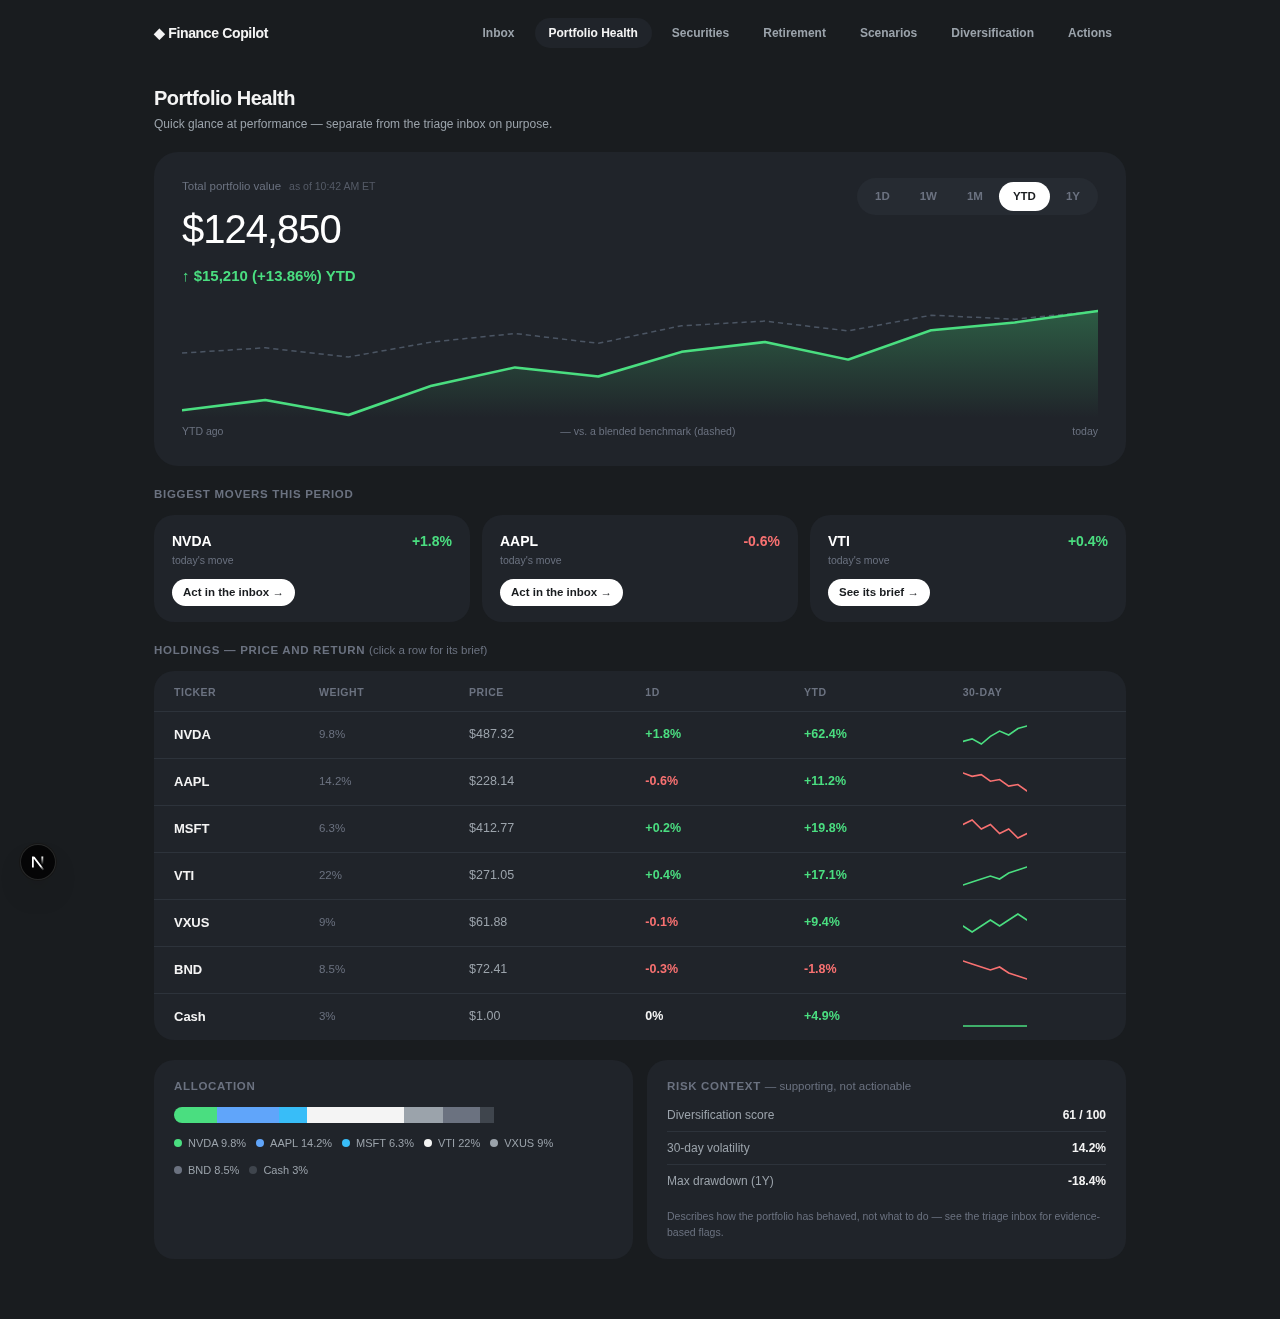
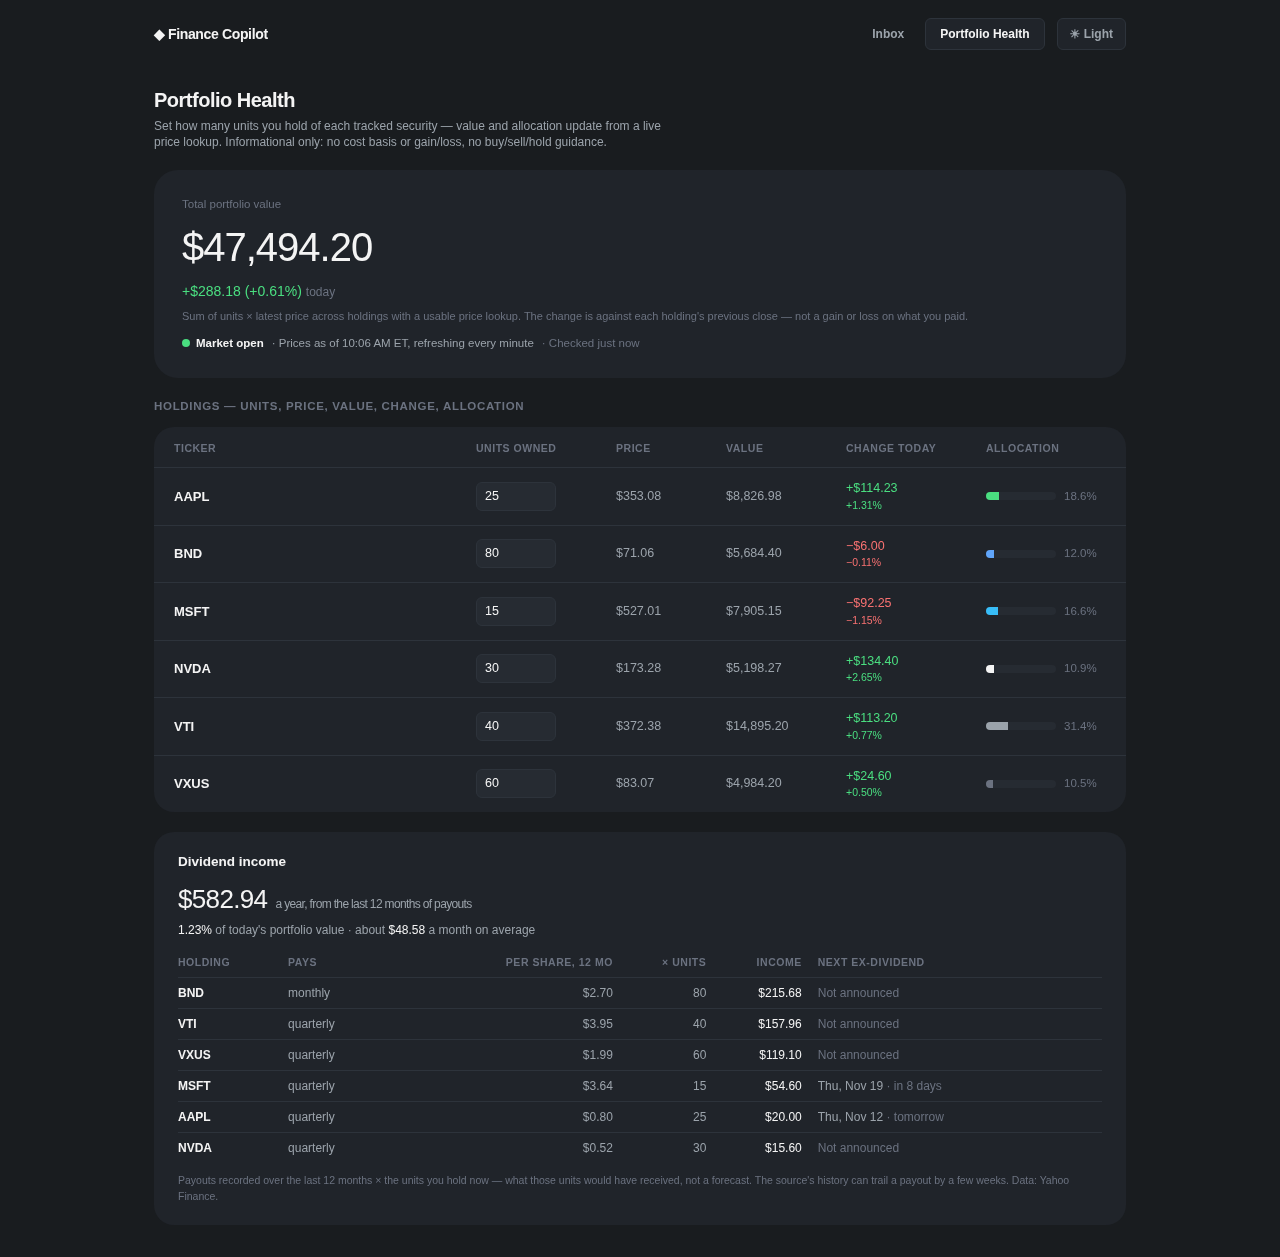
docs: README and ADR index for the live app (ADRs 0015-0018)
The README still described the mock-data POC (no backend, hero chart,
verdict chips, thesis drawer). Rewritten for what the app does now:
the three pages and what each shows, the two rules (information not
instructions; accurate not performative), how it works (Conduit in
homelab-hub, 30-min research, the data sources and their freshness),
running locally with NEXT_PUBLIC_FINANCE_API_BASE, deploying, the
current structure, and a short decision history.

ADR index: 0006-0018 added, with superseded/lifted statuses marked.
Screenshots: the six of removed features replaced by four from a local
stack in market hours (research not run there; the inbox shows its
empty state, and the README says so).

diff --git a/README.md b/README.md
@@ -1,139 +1,245 @@
-# Finance Copilot — Research Triage POC
+# Finance Copilot — Research Triage + Live Market Data
 
-A proof-of-concept AI-assisted portfolio research copilot for one
-hypothetical early-career retirement investor: age 25, a $18,000
-brokerage account across 7 holdings — NVDA, AAPL, MSFT, VTI, VXUS, BND,
-Cash.
+A personal proof of concept: an AI-assisted research copilot for the
+securities you hold. Every 30 minutes it reads each holding's SEC
+filings and news, asks a local LLM what changed, and sorts the result
+into a triage inbox: **Act**, **Watch**, or **Reviewed**. Every claim
+links back to the document it came from.
 
-The app is a triage-first workflow, not a static risk dashboard: what
-needs attention right now, with every claim traceable to a source.
-Visual system is a dark "Confident Flat" theme — see
-[`docs/adr/0011-triage-inbox-visual-implementation.md`](docs/adr/0011-triage-inbox-visual-implementation.md)
-for the build record,
-[`docs/adr/0012-scope-narrowing.md`](docs/adr/0012-scope-narrowing.md)
-for why the app is now exactly three pages (it used to carry five
-unrelated risk-dashboard-era routes under the old "AI Finance Risk
-Analysis" name, since removed), and
-[`design/mockups/clickable-triage.html`](design/mockups/clickable-triage.html),
-[`clickable-health.html`](design/mockups/clickable-health.html), and
-[`clickable-detail.html`](design/mockups/clickable-detail.html) for the
-literal approved spec these three pages implement.
+Alongside the research it shows the market data a holder actually looks
+at:
+- price action;
+- upcoming earnings and ex-dividend dates;
+- Fed rate decisions;
+- dividend income;
+- how diversified the portfolio really is once funds are looked
+  through.
 
-- **What needs my attention?** ([`/`](apps/web/src/app/page.tsx), the
-  landing page — "Inbox" in the nav) — every holding grouped into
-  Act / Watch / Reviewed (no action needed), each item carrying a
-  headline, a one-line summary, and the specific reason it was
-  flagged. "Mark reviewed" is a real client-side interaction (no
-  persistence — POC). Below the queue, portfolio-level signals
-  (concentration hidden inside index funds, correlated news across
-  holdings) surface cross-holding analysis no single item's triage
-  would catch, plus the current allocation breakdown. Never a
-  buy/sell/hold call — every claim is framed as evidence to form your
-  own view from, with a stated basis.
-- **How is it doing?** ([`/portfolio-health`](apps/web/src/app/portfolio-health/page.tsx)) —
-  a deliberately separate page from the inbox (triage changes when
-  news drops; this changes when the market moves). Hero total-value
-  chart with a 1D/1W/1M/YTD/1Y toggle (the chart's accent color always
-  follows the actual sign of the period's change, never hardcoded),
-  biggest movers linking back into the inbox or a holding's brief,
-  a holdings price/return table, an allocation bar, and risk context
-  (diversification score, volatility, max drawdown) demoted to a small
-  card explicitly labeled "describes behavior, not instruction."
-- **Why is this holding flagged, and what's the evidence?**
-  ([`/securities/[ticker]`](apps/web/src/app/securities/[ticker]/page.tsx)) —
-  a thesis check with a verdict chip (weakens/supports/neutral,
-  always paired with its reason — never a bare rating), bull case /
-  bear case with inline citation markers, upcoming catalysts, a
-  chronological timeline, an explicit "what this system couldn't
-  verify" disclosure, and a per-citation "show your work" drawer
-  (raw excerpt, source-quality tag, model classification). Covers all
-  7 holdings, including the two low-activity index funds and Cash,
-  which render minimal pages rather than breaking.
+Two rules apply everywhere:
 
-**This is a POC with no backend, no data pipeline, and no real data.**
-Everything on screen is synthetic/mock data defined in
-[`apps/web/src/lib/mock-data.ts`](apps/web/src/lib/mock-data.ts) (news/
-sentiment/tax-flag fixtures feeding the relevance ranking) and
-[`apps/web/src/lib/triage.ts`](apps/web/src/lib/triage.ts) (the inbox,
-Portfolio Health, and holding-detail content — copied verbatim from the
-approved mockups, not invented). See
-[`docs/adr/0001-poc-scope-no-plumbing.md`](docs/adr/0001-poc-scope-no-plumbing.md)
-for why, and the rest of [`docs/adr/`](docs/adr/) for the full decision
-history — including ADRs 0002-0009, which cover product directions
-(retirement projection, scenario replay, diversification scoring) that
-were built, then removed per ADR 0012; those ADRs are left unedited as
-a historical record, not retconned.
+- **Information, not instructions.** There is no buy/sell/hold language
+  and no scores or verdicts. Signals show their basis, and AI-written
+  text cites its sources.
+- **Accurate, not performative.** Every price says which session it's
+  from. Outside market hours the app says so ("Market closed · Prices
+  are from the Fri, Nov 13 4:00 PM ET close"). Only dates that have
+  actually been published are shown; nothing is projected. Figures that
+  look backwards say so ("not a forecast").
+
+## Pages
+
+### Inbox — what needs my attention? ([`/`](apps/web/src/app/page.tsx))
+- **Market status line:**
+  - while the market is open, prices refresh every minute;
+  - outside the session, it states which close the prices are from.
+- **Holdings being watched:**
+  - add or remove tickers (stocks, ETFs, treasuries, index funds);
+  - each shows its price, its day change, when it was last researched,
+    and a *Refresh now* button.
+- **Needs your attention:** Act / Watch cards from the latest LLM read.
+  - Each card shows the price, the day change, the day's price chart
+    (previous close dashed), and a chip for the nearest dated event
+    ("Earnings in 6 days").
+  - *Mark reviewed* folds a card into the Reviewed group. It's
+    browser-only for now: the mark isn't saved.
+- **Coming up:** the next 30 days of published earnings dates and
+  announced ex-dividend dates across your holdings, plus scheduled Fed
+  rate decisions, in date order.
+
+### Holding detail — why is this flagged? ([`/securities/[ticker]`](apps/web/src/app/securities/[ticker]/page.tsx))
+- **Market panel:**
+  - price and change, with the day's chart;
+  - previous close, day range and 52-week range (with where the price
+    sits), and volume;
+  - beta and trailing P/E;
+  - next earnings, marked *Confirmed* or *Estimated*;
+  - dividend yield, payment schedule, and the next ex-dividend date
+    (or the last recorded one).
+  - Every term has an inline explanation.
+- **Latest read:** the LLM's summary, event type, sentiment and
+  materiality, with "this claim cites" links to the source documents.
+  Earlier reads are listed below it.
+- **Documents fetched:** the filings and news the reads were built from,
+  each linking to the original.
+
+### Portfolio Health — how is it doing? ([`/portfolio-health`](apps/web/src/app/portfolio-health/page.tsx))
+Numbers only, no AI text. Every figure is arithmetic on published data.
+
+- **Value and change:**
+  - total value (units × latest price), and the change since the
+    previous close, in total and per position;
+  - an editable *units* column;
+  - allocation.
+- **Dividend income:**
+  - payouts recorded over the last 12 months × the units you hold now;
+  - as a yearly total, a share of today's value, and a monthly average;
+  - a per-holding breakdown with the next announced ex-dividend date.
+- **Diversification:**
+  - concentration (largest position, top 3, "sized like N equal
+    holdings");
+  - asset mix;
+  - sector exposure, held directly vs through funds;
+  - single-company exposure, including through funds' top holdings;
+  - how closely holdings have moved together over 12 months.
+  - The only words attached to a number are fractions that are true of
+    it ("60.2% — a majority").
 
 ## Screenshots
 
-Inbox — the landing page, Act/Watch triage queue with portfolio-level signals:
+These are from a local stack during market hours, with six test
+holdings. Research hasn't run on that stack, so the inbox shows its
+empty "All caught up" state.
 
-![Inbox](docs/screenshots/triage-inbox.png)
+Inbox: market status, watched holdings with live prices, and Coming up (earnings, ex-dividend dates, the next Fed decision):
 
-Inbox — after marking an item reviewed (client-side state, no persistence):
+![Inbox](docs/screenshots/inbox.png)
 
-![Inbox — mark reviewed](docs/screenshots/triage-inbox-mark-reviewed.png)
+Holding detail: NVDA's market panel during the session:
 
-Portfolio Health — hero value chart, movers, holdings table, allocation, risk context:
+![Holding detail — NVDA](docs/screenshots/holding-detail-nvda.png)
+
+Portfolio Health: value, change today, holdings, and dividend income:
 
 ![Portfolio Health](docs/screenshots/portfolio-health.png)
 
-Portfolio Health — 1D timeframe selected (chart color follows the actual sign):
+Portfolio Health: diversification, including the fund look-through and the 12-month co-movement grid:
 
-![Portfolio Health — 1D](docs/screenshots/portfolio-health-1d.png)
+![Portfolio Health — diversification](docs/screenshots/portfolio-health-diversification.png)
 
-Holding detail — NVDA's thesis check, bull/bear evidence, catalysts, and timeline:
+## How it works
 
-![Security detail — NVDA](docs/screenshots/security-detail-nvda.png)
+```
+Browser ──► this app (Next.js, client-side fetches)
+               │  NEXT_PUBLIC_FINANCE_API_BASE  (…/api/v1/finance)
+               ▼
+           Conduit — homelab-hub/services/conduit, `finance` module
+               ├─ Postgres: holdings, documents, analyses, schedules
+               ├─ every 30 min per holding: finance_ingest
+               │     SEC EDGAR filings + Finnhub news (if keyed)
+               │     └─ only when something is new: finance_analyze
+               │          local Ollama LLM → summary, event type,
+               │          sentiment, materiality, citations
+               │          (a read citing anything outside the documents
+               │           fetched for that run is rejected)
+               ├─ /market: Yahoo Finance (keyless), cached
+               └─ /market fed_meetings: the Fed's published FOMC calendar
+```
 
-Holding detail — a citation's "show your work" drawer open:
+The backend is **not in this repo**. It lives in `homelab-hub`, as the
+`finance` module of its Conduit service, so the triage pipeline shares
+that project's job queue and scheduler.
 
-![Security detail — NVDA, source drawer](docs/screenshots/security-detail-nvda-drawer.png)
+| Data | Source | Freshness |
+|---|---|---|
+| Filings | SEC EDGAR | Checked every 30 min per holding |
+| News | Finnhub (optional key) | Checked every 30 min, 3-day lookback |
+| AI read | Local Ollama LLM | Re-run only when new documents arrive |
+| Prices, intraday, ranges, volume | Yahoo Finance | 45 s server cache; browser polls every 1 min (open), 5 min (pre/after hours), 15 min (closed) |
+| Earnings dates, ex-dividend dates, yield, beta, P/E | Yahoo Finance | 30 min cache |
+| Dividend history, 2 years of daily closes | Yahoo Finance | 6 h cache |
+| Fund make-up (asset split, sectors, top 10) | Yahoo Finance | 24 h cache |
+| Fed rate-decision dates | federalreserve.gov | 24 h cache |
+
+Yahoo's endpoints are unofficial. If one fails, only the figures from
+that call disappear; the rest of the page keeps working.
+
+## Running it locally
+
+You need a running Conduit (from `homelab-hub`) with the finance module.
+Then point this app at it:
+
+```bash
+npm install
+NEXT_PUBLIC_FINANCE_API_BASE=http://localhost:8080/api/v1/finance \
+  npm run dev --workspace=apps/web
+# http://localhost:3000
+```
+
+The browser calls Conduit directly. Conduit allows `localhost` and
+`127.0.0.1` origins (any port) for local development.
+
+`NEXT_PUBLIC_FINANCE_API_BASE` is inlined into the client bundle at
+**build** time. Changing it means rebuilding, not just restarting.
+
+Production build:
+
+```bash
+NEXT_PUBLIC_FINANCE_API_BASE=… npm run build --workspace=apps/web
+npm run start --workspace=apps/web
+```
+
+## Deploying
+
+A single container ([`Dockerfile`](Dockerfile),
+[`docker-compose.yml`](docker-compose.yml)) published on host port
+3210. Set `NEXT_PUBLIC_FINANCE_API_BASE` in `.env` (see
+[`.env.example`](.env.example)). Compose passes it as a **build arg**,
+so run `docker compose build` after changing it.
+
+In production the public site serves the app and proxies
+`/api/v1/finance/*` to Conduit on the same domain. That keeps the API
+same-origin, so no CORS is needed and viewers don't need VPN access.
+See [`docs/deployment.md`](docs/deployment.md) for the reverse-proxy
+setup.
 
 ## Structure
 
 ```
 ai-finance-risk-analysis/
-├── apps/
-│   └── web/              # Next.js (App Router) app
-│       └── src/
-│           ├── app/              # page.tsx (inbox), portfolio-health/,
-│           │                     # securities/[ticker]/  — exactly 3 routes
-│           ├── components/       # HoldingDetailView, SiteNav
-│           └── lib/
-│               ├── mock-data.ts  # persona + news/sentiment/tax-flag fixtures
-│               ├── triage.ts     # inbox, Portfolio Health, holding-detail data
-│               └── digest.ts     # pure relevance-ranking function
-├── design/
-│   └── mockups/           # approved static-HTML design mockups (reference only,
-│                           # not shipped code) — clickable-triage.html,
-│                           # clickable-health.html, clickable-detail.html are the
-│                           # literal spec apps/web implements
+├── apps/web/src/
+│   ├── app/
+│   │   ├── page.tsx                 # Inbox
+│   │   ├── portfolio-health/        # Portfolio Health
+│   │   └── securities/[ticker]/     # Holding detail
+│   ├── components/
+│   │   ├── HoldingsManager.tsx      # watched holdings: add/remove/refresh, price + change
+│   │   ├── LiveHoldingDetailView.tsx, SecurityDetailClient.tsx
+│   │   ├── MarketPanel.tsx          # detail-page market data
+│   │   ├── MarketStatus.tsx         # the honest open/closed line
+│   │   ├── PriceChart.tsx           # intraday sparkline + session chart (inline SVG)
+│   │   ├── UpcomingEvents.tsx       # Coming up
+│   │   ├── DividendIncome.tsx
+│   │   ├── DiversificationSection.tsx
+│   │   ├── useMarket.ts             # market-clock polling
+│   │   └── SiteNav.tsx, ThemeToggle.tsx
+│   └── lib/
+│       ├── live-finance.ts          # API client + types mirroring Conduit's JSON
+│       ├── market.ts                # market wording, formatting, event and fraction rules
+│       ├── triage.ts                # inbox card type
+│       └── format.ts
+├── design/mockups/                  # approved static-HTML mockups (reference only)
+│   └── FUTURE-FEATURES.md           # considered, not built (and declined) ideas
 ├── docs/
-│   ├── adr/               # architecture decision records
-│   └── screenshots/       # app screenshots (this README embeds them)
-└── package.json            # npm workspaces root
+│   ├── adr/                         # decision records, 0001–0018
+│   ├── deployment.md
+│   └── screenshots/
+├── Dockerfile, docker-compose.yml, .env.example
+└── package.json                     # npm workspaces root
 ```
 
-## Running it locally
+## Decision history
 
-```bash
-npm install
-npm run dev --workspace=apps/web
-# http://localhost:3000
-```
+[`docs/adr/`](docs/adr/) records every reframe and why. In short:
 
-Production build:
+- **0001–0014:** a mock-data POC that went through several product
+  shapes. It started as a risk dashboard and per-security comparison,
+  then became a retirement persona, then a research copilot with a
+  triage inbox. ADR 0012 trimmed it to three pages; 0013–0014 set the
+  visual system.
+- **0015:** live data. The finance module was added in Conduit, and
+  holdings became dynamic.
+- **0016:** active market data and a 30-minute research cadence, with
+  honest market-status wording.
+- **0017:** diversification on Portfolio Health, numbers only.
+- **0018:** dividend income and Fed rate decisions, chosen from a survey
+  of other portfolio sites.
 
-```bash
-npm run build --workspace=apps/web
-npm run start --workspace=apps/web
-```
+Superseded ADRs are kept as written, as a record.
 
 ## Tech
 
-- [Next.js](https://nextjs.org) 16 (App Router, TypeScript, Tailwind CSS v4)
-- All charts (hero value, holdings sparklines, mover cards) are inline
-  SVG per the approved mockups — no charting library dependency
-
-See [`docs/adr/`](docs/adr/) for the reasoning behind each of these choices.
+- [Next.js](https://nextjs.org) 16 (App Router, TypeScript, Tailwind
+  CSS v4), with dark and light themes (ADR 0014).
+- All charts are inline SVG; there's no charting library.
+- Backend: Go (Conduit) + Postgres + a local Ollama model, in
+  `homelab-hub`.

diff --git a/docs/adr/README.md b/docs/adr/README.md
@@ -1,14 +1,31 @@
 # Architecture Decision Records
 
-This directory tracks the key decisions made while building this POC. Each
-ADR is numbered, immutable once accepted (superseded rather than edited),
-and follows the lightweight Michael Nygard format: Status, Context,
-Decision, Consequences.
+This directory tracks the key decisions made while building this POC.
+Each ADR is numbered, immutable once accepted (superseded rather than
+edited), and follows the lightweight Michael Nygard format: Status,
+Context, Decision, Consequences.
+
+The early ADRs (0001–0009) describe product shapes that were later
+replaced. They are kept as written; the ADR that replaced each one
+says why.
 
 | # | Title | Status |
 |---|-------|--------|
-| [0001](0001-poc-scope-no-plumbing.md) | POC scope: no backend, no data pipeline, no deployment plumbing | Accepted |
+| [0001](0001-poc-scope-no-plumbing.md) | POC scope: no backend, no data pipeline, no deployment plumbing | Accepted, lifted by 0015 |
 | [0002](0002-monorepo-layout.md) | Single-app monorepo layout under `apps/` | Accepted |
 | [0003](0003-nextjs-frontend.md) | Next.js (App Router) for the dashboard frontend | Accepted |
-| [0004](0004-mock-data-strategy.md) | Static, in-repo mock data instead of a fixture API or database | Accepted |
-| [0005](0005-charting-library.md) | Recharts for charting | Accepted |
+| [0004](0004-mock-data-strategy.md) | Static, in-repo mock data instead of a fixture API or database | Accepted, superseded by 0015 |
+| [0005](0005-charting-library.md) | Recharts for charting | Accepted, later replaced by inline SVG |
+| [0006](0006-per-security-comparison-view.md) | Per-security comparison view | Accepted, later superseded |
+| [0007](0007-drop-traditional-research-comparison.md) | Drop the traditional-research comparison | Accepted |
+| [0008](0008-personal-portfolio-reframe.md) | Reframe as a personal diversified portfolio, add diversification risk | Accepted, later superseded |
+| [0009](0009-retirement-persona-and-projection.md) | Retirement persona and projection methodology | Accepted, later superseded |
+| [0010](0010-research-copilot-reframe.md) | Research-copilot reframe: per-security briefs + portfolio-wide "what changed" | Accepted |
+| [0011](0011-triage-inbox-visual-implementation.md) | Triage-inbox visual implementation: dark "Confident Flat" system, Act/Watch queue | Accepted |
+| [0012](0012-scope-narrowing.md) | Scope narrowing: remove the risk-dashboard-era pages | Accepted |
+| [0013](0013-rectangular-buttons.md) | Rounded-rectangle buttons, not pills | Accepted |
+| [0014](0014-light-mode.md) | Light mode: off-white, not stark white | Accepted |
+| [0015](0015-live-finance-domain-and-dynamic-holdings.md) | Live finance domain in Conduit + dynamic holdings (lifts 0001/0004 for this feature) | Accepted |
+| [0016](0016-active-market-data-and-30-minute-research.md) | Active market data and a 30-minute research cadence | Accepted |
+| [0017](0017-diversification-numbers-only.md) | Diversification on Portfolio Health: numbers only | Accepted |
+| [0018](0018-dividend-income-and-fed-decisions.md) | Dividend income and Fed rate decisions | Accepted |
